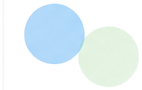
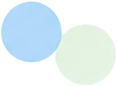
Remove slice-artifact slivers from illustration assets (car, flow, blobs)
Same sprite-sheet junk as the icons: thin orphan lines at canvas edges of
10 illustration assets (visible as a stray line left of the price-card
car, and lurking in flow/hero/cta artwork). Cropped each to real content
using cluster analysis that preserves genuine multi-part art (074 book+
text, 090 two-photo montage) and drops only thin low-mass edge slivers.
Updated width/height attributes accordingly (13 imgs, index+guardian).

Verified: price-card cars render clean with no left line.

Changed region(s): [[0.0, 0.0, 0.7949, 0.9767], [0.9487, 0.7442, 0.9744, 0.7674]]

diff --git a/drastalp/index.html b/drastalp/index.html
@@ -114,9 +114,9 @@
       </div>
     </div>
     <div class="hero-media" id="heroMedia">
-      <img class="hero-blob b1 floaty" src="assets/asset_003.png" alt="" aria-hidden="true" width="142" height="87">
+      <img class="hero-blob b1 floaty" src="assets/asset_003.png" alt="" aria-hidden="true" width="117" height="83">
       <img class="hero-blob b2 floaty slow" src="assets/asset_005.png" alt="" aria-hidden="true" width="111" height="90">
-      <img class="hero-blob b3 floaty fast" src="assets/asset_026.png" alt="" aria-hidden="true" width="142" height="90">
+      <img class="hero-blob b3 floaty fast" src="assets/asset_026.png" alt="" aria-hidden="true" width="117" height="86">
       <div class="hero-photo"><img src="assets/asset_084.png" alt="車内で笑顔で運転する受講生" width="156" height="91" fetchpriority="high" decoding="async"></div>
     </div>
   </div>
@@ -154,7 +154,7 @@
           <li>運転がはじめての方も、基礎からしっかり</li>
           <li>足りなければ追加教習もOK。無理なく卒業</li>
         </ul>
-        <img class="pcar" src="assets/asset_080.png" alt="" width="125" height="106">
+        <img class="pcar" src="assets/asset_080.png" alt="" width="99" height="75">
       </div>
       <div class="pcard exp">
         <span class="pbadge">運転経験がある方におすすめ</span>
@@ -165,7 +165,7 @@
           <li>運転経験を活かして、少ない時間で取得</li>
           <li>足りなければ追加教習もOK。無理なく卒業</li>
         </ul>
-        <img class="pcar" src="assets/asset_080.png" alt="" width="125" height="106">
+        <img class="pcar" src="assets/asset_080.png" alt="" width="99" height="75">
       </div>
     </div>
     <p class="pnote">※ 上記は教習料金（税込）です。試験の受験料は別途かかります（<a href="#fees">下記「試験にかかる費用」</a>をご覧ください）。</p>
@@ -178,21 +178,21 @@
   <div class="frow">
     <div class="fstep">
       <div class="fnum">1</div>
-      <span class="fphoto"><img src="assets/asset_076.png" alt="スマホで相談する人" width="135" height="120" loading="lazy" decoding="async"></span>
+      <span class="fphoto"><img src="assets/asset_076.png" alt="スマホで相談する人" width="99" height="116" loading="lazy" decoding="async"></span>
       <p class="ftt">ご相談・お申込み</p>
       <p class="fdesc">LINEでお気軽にご相談ください。</p>
     </div>
     <div class="farrow" aria-hidden="true">›</div>
     <div class="fstep">
       <div class="fnum">2</div>
-      <span class="fphoto"><img src="assets/asset_074.png" alt="学科の教本" width="103" height="90" loading="lazy" decoding="async"></span>
+      <span class="fphoto"><img src="assets/asset_074.png" alt="学科の教本" width="98" height="88" loading="lazy" decoding="async"></span>
       <p class="ftt">仮免学科試験</p>
       <p class="fdesc">独自の問題集を用意！しっかり対策します。</p>
     </div>
     <div class="farrow" aria-hidden="true">›</div>
     <div class="fstep">
       <div class="fnum">3</div>
-      <span class="fphoto"><img src="assets/asset_081.png" alt="車のキー" width="118" height="122" loading="lazy" decoding="async"></span>
+      <span class="fphoto"><img src="assets/asset_081.png" alt="車のキー" width="114" height="78" loading="lazy" decoding="async"></span>
       <p class="ftt">仮免実技練習・試験</p>
       <p class="fdesc">コースでの実技練習後、試験に合格で仮免許取得！</p>
     </div>
@@ -206,14 +206,14 @@
     <div class="farrow" aria-hidden="true">›</div>
     <div class="fstep">
       <div class="fnum">5</div>
-      <span class="fphoto cover"><img src="assets/asset_091.png" alt="路上教習の道路" width="113" height="100" loading="lazy" decoding="async"></span>
+      <span class="fphoto cover"><img src="assets/asset_091.png" alt="路上教習の道路" width="96" height="94" loading="lazy" decoding="async"></span>
       <p class="ftt">本免実技練習・試験</p>
       <p class="fdesc">路上での実技練習後、試験に合格！</p>
     </div>
     <div class="farrow" aria-hidden="true">›</div>
     <div class="fstep">
       <div class="fnum">6</div>
-      <span class="fphoto"><img src="assets/asset_082.png" alt="若葉マーク" width="154" height="121" loading="lazy" decoding="async"></span>
+      <span class="fphoto"><img src="assets/asset_082.png" alt="若葉マーク" width="68" height="121" loading="lazy" decoding="async"></span>
       <p class="ftt">免許取得</p>
       <p class="fdesc">取得時講習を受講後、免許取得！</p>
     </div>
@@ -227,7 +227,7 @@
     <div class="egrid">
       <div class="ecard">
         <div class="ehead"><img src="assets/asset_049.png" alt="" width="54" height="58" loading="lazy" decoding="async">9時～17時まで営業</div>
-        <img class="ephoto" src="assets/asset_090.png" alt="教習コースの様子" width="215" height="98" loading="lazy" decoding="async">
+        <img class="ephoto" src="assets/asset_090.png" alt="教習コースの様子" width="213" height="94" loading="lazy" decoding="async">
         <ul class="ebody">
           <li>9時 / 10時 / 11時 / 14時 / 15時 / 16時から選択可能</li>
           <li>1日最大5コマ（1コマ＝50分）まで予約OK</li>
@@ -245,7 +245,7 @@
       </div>
       <div class="ecard">
         <div class="ehead"><img src="assets/asset_050.png" alt="" width="40" height="57" loading="lazy" decoding="async">大阪・奈良の試験場に対応</div>
-        <img class="ephoto" src="assets/asset_091.png" alt="試験場周辺" width="113" height="100" loading="lazy" decoding="async">
+        <img class="ephoto" src="assets/asset_091.png" alt="試験場周辺" width="96" height="94" loading="lazy" decoding="async">
         <ul class="ebody">
           <li>大阪：光明池試験場、門真試験場</li>
           <li>奈良：奈良県運転免許センター</li>
@@ -301,7 +301,7 @@
 </section>
 
 <section class="fcta" id="contact">
-  <img class="hero-blob b1 floaty" src="assets/asset_002.png" alt="" aria-hidden="true" width="148" height="87">
+  <img class="hero-blob b1 floaty" src="assets/asset_002.png" alt="" aria-hidden="true" width="116" height="87">
   <div class="fcta-in">
     <img class="fillu floaty slow" src="assets/asset_083.png" alt="" aria-hidden="true" width="103" height="115">
     <div class="stack">

diff --git a/drastalp/guardian.html b/drastalp/guardian.html
@@ -130,7 +130,7 @@
 </section>
 
 <section class="fcta" id="gcta">
-  <img class="hero-blob b1 floaty" src="assets/asset_002.png" alt="" aria-hidden="true" width="148" height="87" loading="lazy" decoding="async">
+  <img class="hero-blob b1 floaty" src="assets/asset_002.png" alt="" aria-hidden="true" width="116" height="87" loading="lazy" decoding="async">
   <div class="fcta-in">
     <img class="fillu floaty slow" src="assets/asset_083.png" alt="" aria-hidden="true" width="103" height="115" loading="lazy" decoding="async">
     <div class="stack">
